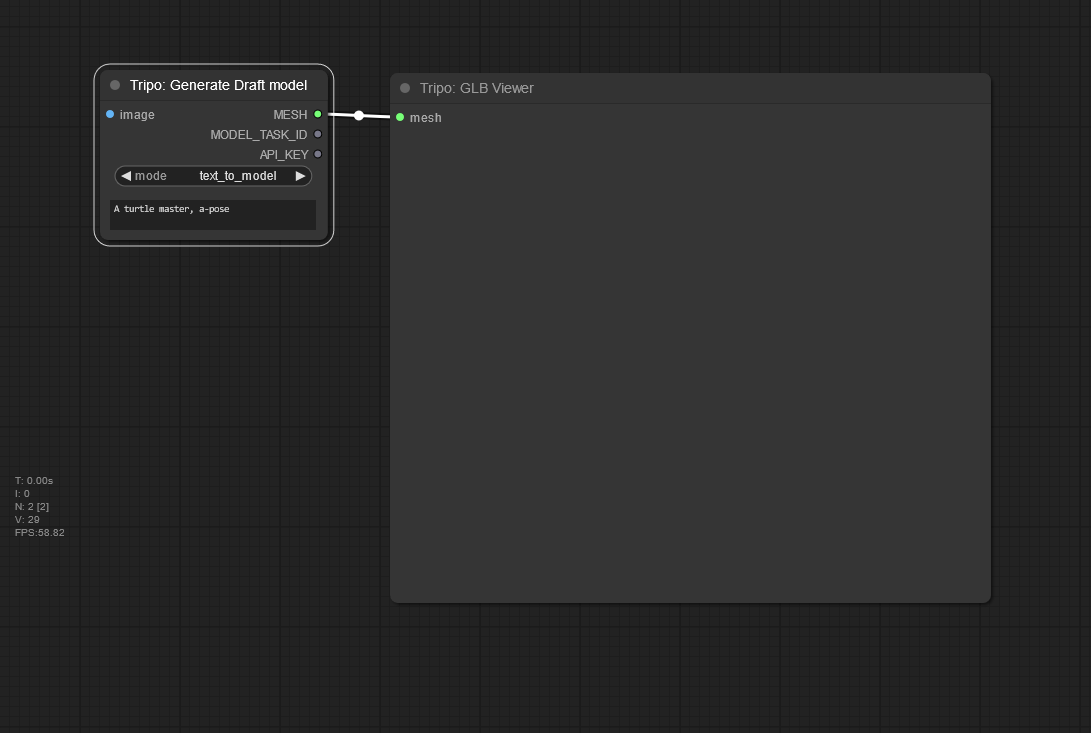
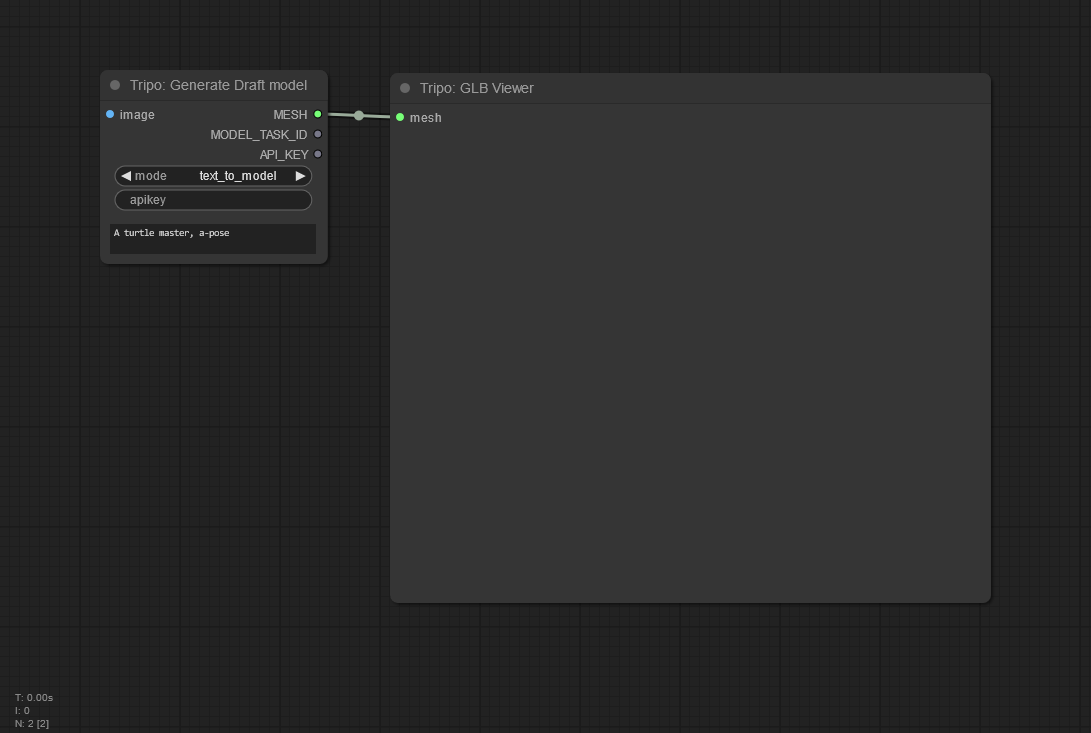
fix key

diff --git a/__init__.py b/__init__.py
@@ -18,7 +18,7 @@ def GetTripoAPI(apikey: str):
     apiKey = tripo_api_key if tripo_api_key else apiKey
     if not apiKey:
         raise RuntimeError("TRIPO API key is required")
-    return TripoAPI(apiKey)
+    return TripoAPI(apiKey), apiKey
 
 class TripoGLBViewer:
     @classmethod
@@ -70,7 +70,7 @@ class TripoAPIDraft:
             }
         }
         if not tripo_api_key:
-            config["required"]["apikey"] = ("STRING")
+            config["required"]["apikey"] = ("STRING", {"default": ""})
         return config
 
     RETURN_TYPES = ("MESH", "MODEL_TASK_ID", "API_KEY",)
@@ -78,7 +78,7 @@ class TripoAPIDraft:
     CATEGORY = "TripoAPI"
 
     def generate_mesh(self, mode, prompt=None, image=None, apiKey = None):
-        api = GetTripoAPI(apiKey)
+        api, key = GetTripoAPI(apiKey)
 
         if mode == "text_to_model":
             if not prompt:
@@ -90,7 +90,7 @@ class TripoAPIDraft:
             image_name = save_tensor(image, os.path.join(get_output_directory(), "image"))
             result = api.image_to_3d(image_name)
         if result['status'] == 'success':
-            return ([result['model']], result['task_id'])
+            return ([result['model']], result['task_id'], key)
         else:
             raise RuntimeError(f"Failed to generate mesh: {result['message']}")
 
@@ -103,7 +103,7 @@ class TripoRefineModel:
             }
         }
         if not tripo_api_key:
-            config["required"]["apikey"] = ("API_KEY")
+            config["required"]["apikey"] = ("API_KEY",)
         return config
 
     RETURN_TYPES = ("MODEL_Task_ID",)
@@ -113,10 +113,10 @@ class TripoRefineModel:
     def generate_mesh(self, draft_model_task_id, apiKey = None):
         if not draft_model_task_id:
             raise RuntimeError("original_model_task_id is required")
-        api = GetTripoAPI(apiKey)
+        api, key = GetTripoAPI(apiKey)
         result = api.refine_draft(draft_model_task_id)
         if result['status'] == 'success':
-            return ([result['model']], result['task_id'])
+            return ([result['model']], result['task_id'], key)
         else:
             raise RuntimeError(f"Failed to generate mesh: {result['message']}")
 
@@ -129,7 +129,7 @@ class TripoAnimateRigNode:
             }
         }
         if not tripo_api_key:
-            config["required"]["apikey"] = ("API_KEY")
+            config["required"]["apikey"] = ("API_KEY",)
         return config
 
     RETURN_TYPES = ("MESH", "RIG_TASK_ID")
@@ -139,10 +139,10 @@ class TripoAnimateRigNode:
     def generate_mesh(self, original_model_task_id, apiKey = None):
         if original_model_task_id is None or original_model_task_id == "":
             raise RuntimeError("original_model_task_id is required")
-        api = GetTripoAPI(apiKey)
+        api, key = GetTripoAPI(apiKey)
         result = api.animate_rig(original_model_task_id)
         if result['status'] == 'success':
-            return ([result['model']], result['task_id'])
+            return ([result['model']], result['task_id'], key)
         else:
             raise RuntimeError(f"Failed to generate mesh: {result['message']}")
 
@@ -156,7 +156,7 @@ class TripoAnimateRetargetNode:
             }
         }
         if not tripo_api_key:
-            config["required"]["apikey"] = ("API_KEY")
+            config["required"]["apikey"] = ("API_KEY",)
         return config
 
     RETURN_TYPES = ("MESH",)
@@ -168,10 +168,10 @@ class TripoAnimateRetargetNode:
             raise RuntimeError("original_model_task_id is required")
         if not animation:
             raise RuntimeError("Animation is required")
-        api = GetTripoAPI(apiKey)
+        api, key = GetTripoAPI(apiKey)
         result = api.animate_retarget(original_model_task_id, animation)
         if result['status'] == 'success':
-            return ([result['model']], result['task_id'])
+            return ([result['model']], result['task_id'], key)
         else:
             raise RuntimeError(f"Failed to generate mesh: {result['message']}")
 
